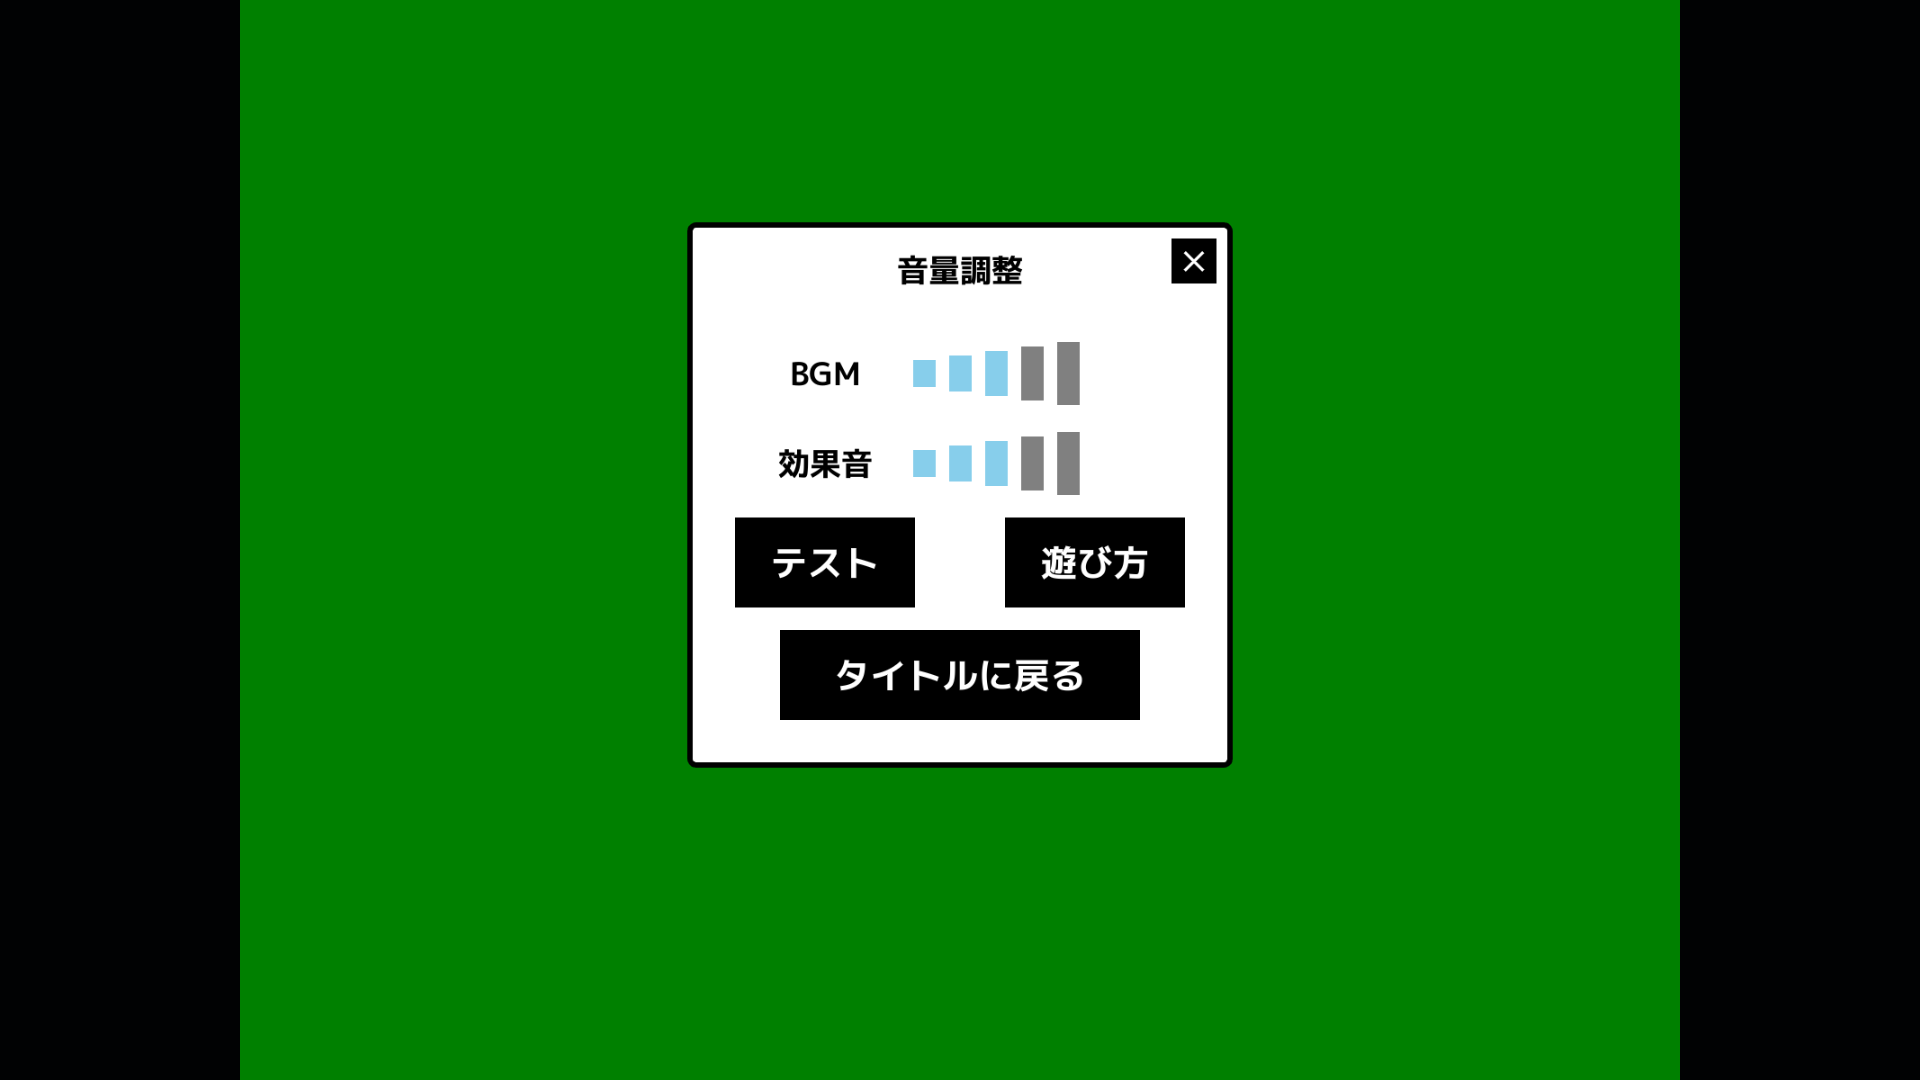
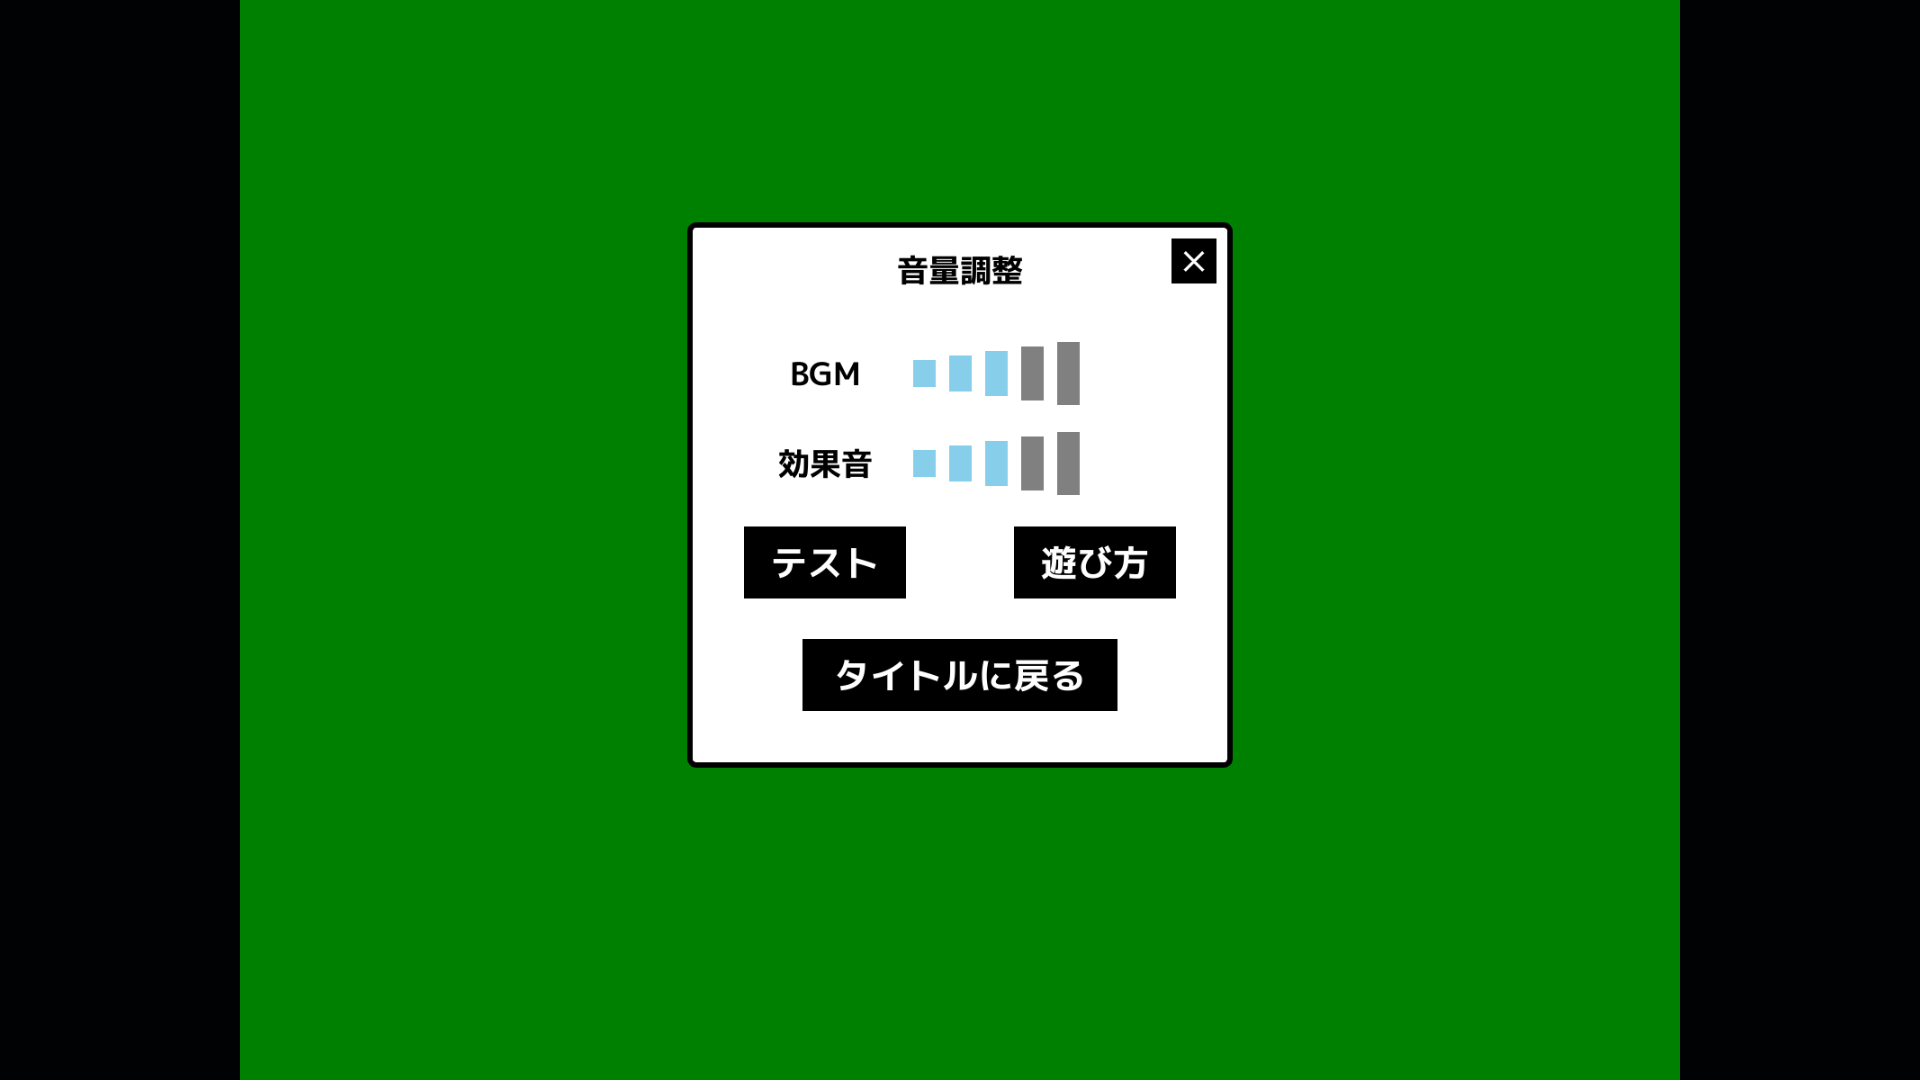
Configボタン調整

Changed region(s): [[0.375, 0.4583, 0.625, 0.6722], [0.4688, 0.4889, 0.5312, 0.55]]

diff --git a/MemoryPoker/Config.hpp b/MemoryPoker/Config.hpp
@@ -10,18 +10,16 @@ public:
 
 	void draw() const override;
 
-	bool getFlg();
-
 private:
 	RoundRect Frame{ 500, 250, 600, 600, 7 }; //外枠
 	Rect CancelButton{ Arg::center(1060, 290), 50, 50 }; //キャンセルボタン
-	Rect SoundTestButton{ Arg::center(650, 625), 200, 100 }; //サウンドテストボタン
-	Rect RuleButton{ Arg::center(950, 625), 200, 100 }; //遊び方ボタン
-	Rect ToExitButton{ Arg::center(800, 750), 400, 100 }; //タイトルに戻る
+	Rect SoundTestButton{ Arg::center(650, 625), 180, 80 }; //サウンドテストボタン
+	Rect RuleButton{ Arg::center(950, 625), 180, 80 }; //遊び方ボタン
+	Rect ToExitButton{ Arg::center(800, 750), 350, 80 }; //タイトルに戻る
 
 	//「タイトルに戻りますか」画面のボタン
-	Rect ExitButton{ Arg::center(650, 700), 250, 100 };
-	Rect ExitCancel{ Arg::center(950, 700), 250, 100 };
+	Rect ExitButton{ Arg::center(650, 700), 220, 80 };
+	Rect ExitCancel{ Arg::center(950, 700), 220, 80 };
 
 	//BGM調整用のボタン
 	Array<Rect> BGMButtons = {
